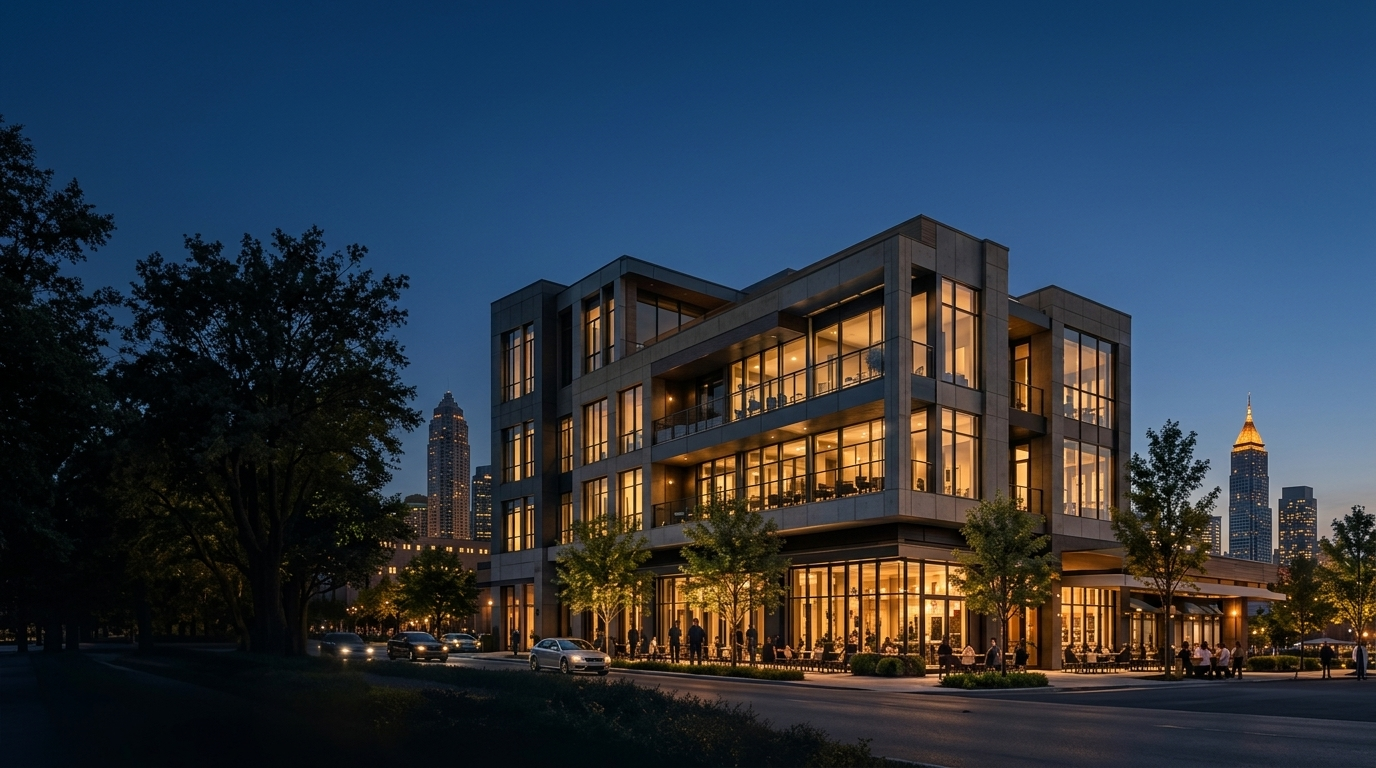
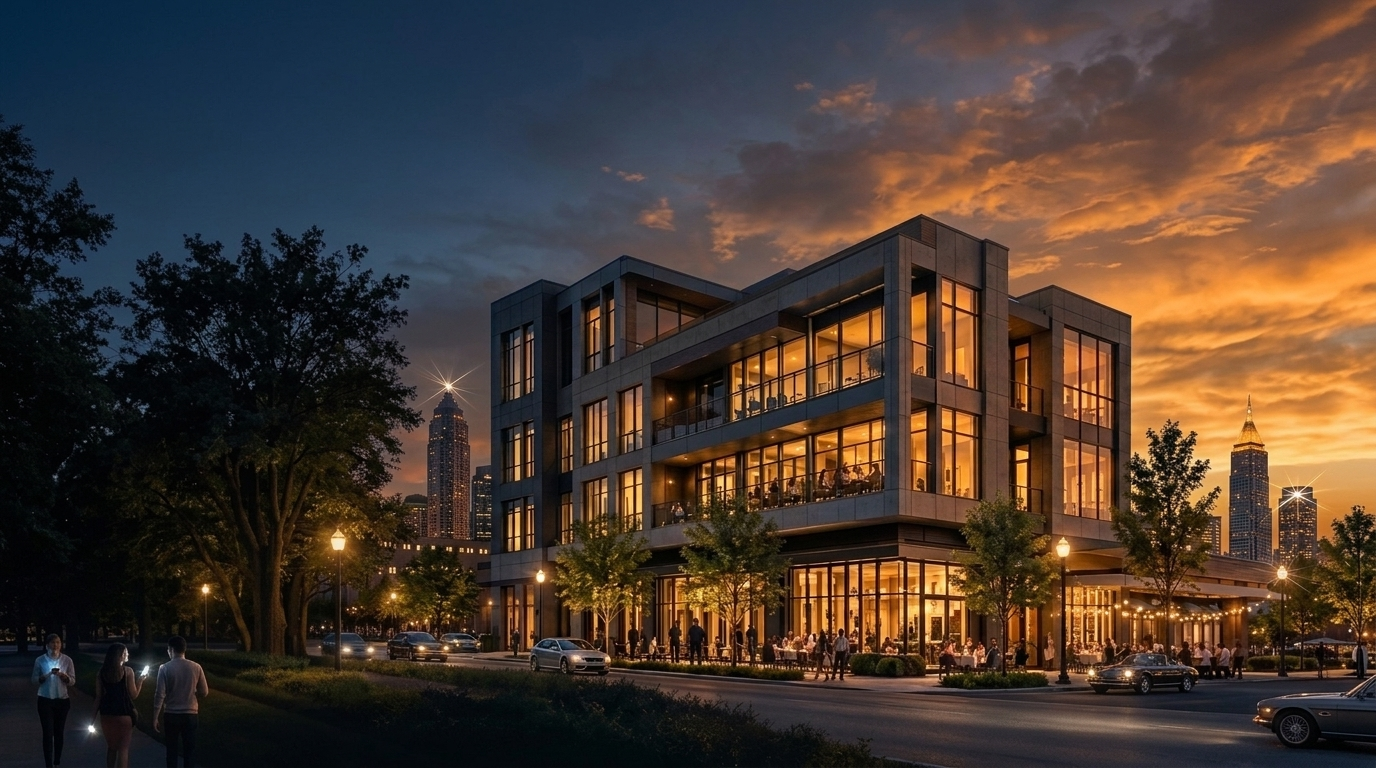
feat(hero): align hero section, imagery and metrics exactly with client reference mockup

diff --git a/components/sections/hero.tsx b/components/sections/hero.tsx
@@ -4,117 +4,206 @@ import * as React from "react";
 import Link from "next/link";
 import Image from "next/image";
 import { Button } from "@/components/ui/button";
-import {
-  Building2,
-  MapPin,
-  Users,
-  Home,
-  ShieldCheck,
-  ArrowRight,
-} from "lucide-react";
+import { ArrowRight } from "lucide-react";
 
 export function Hero() {
   const stats = [
     {
+      icon: (
+        <svg
+          className="w-7 h-7 sm:w-8 sm:h-8 text-[#C5A059] shrink-0"
+          viewBox="0 0 32 32"
+          fill="none"
+          stroke="currentColor"
+          strokeWidth="1.5"
+        >
+          <path
+            d="M4 28h24M7 28V9l9-5v24M16 14v14M16 14l9 4v10"
+            strokeLinecap="round"
+            strokeLinejoin="round"
+          />
+          <path
+            d="M10 11h3M10 15h3M10 19h3M10 23h3M19 19h3M19 23h3"
+            strokeLinecap="round"
+          />
+        </svg>
+      ),
       value: "$1B+",
-      label: "Projects & Programs Supported",
+      label1: "PROJECTS & PROGRAMS",
+      label2: "SUPPORTED",
     },
     {
-      value: "250+",
-      label: "Homes Delivered",
-    },
-    {
+      icon: (
+        <svg
+          className="w-7 h-7 sm:w-8 sm:h-8 text-[#C5A059] shrink-0"
+          viewBox="0 0 32 32"
+          fill="none"
+          stroke="currentColor"
+          strokeWidth="1.5"
+        >
+          <path
+            d="M5 10l3.5-3 5 2 6-4 6 3 2 7.5-2.5 5.5-6.5 2.5-7.5-2.5-4 1-2-4.5 2-7.5z"
+            strokeLinecap="round"
+            strokeLinejoin="round"
+          />
+        </svg>
+      ),
       value: "20+",
-      label: "Markets Across the U.S.",
+      label1: "MARKETS ACROSS",
+      label2: "THE U.S.",
     },
     {
+      icon: (
+        <svg
+          className="w-7 h-7 sm:w-8 sm:h-8 text-[#C5A059] shrink-0"
+          viewBox="0 0 32 32"
+          fill="none"
+          stroke="currentColor"
+          strokeWidth="1.5"
+        >
+          <circle cx="16" cy="11" r="3.5" />
+          <circle cx="9" cy="14.5" r="2.5" />
+          <circle cx="23" cy="14.5" r="2.5" />
+          <path
+            d="M11 25v-2a5 5 0 0 1 10 0v2M4 26v-1.5a4 4 0 0 1 6-3.5M28 26v-1.5a4 4 0 0 0-6-3.5"
+            strokeLinecap="round"
+            strokeLinejoin="round"
+          />
+        </svg>
+      ),
       value: "100%",
-      label: "Commitment to Community Impact",
+      label1: "COMMITMENT TO",
+      label2: "EXECUTION",
+    },
+    {
+      icon: (
+        <svg
+          className="w-7 h-7 sm:w-8 sm:h-8 text-[#C5A059] shrink-0"
+          viewBox="0 0 32 32"
+          fill="none"
+          stroke="currentColor"
+          strokeWidth="1.5"
+        >
+          <path
+            d="M5 26h22M8 26v-6M13 26v-11M18 26v-16M23 26v-21"
+            strokeLinecap="round"
+            strokeLinejoin="round"
+          />
+        </svg>
+      ),
+      value: "250+",
+      label1: "HOMES & UNITS",
+      label2: "DELIVERED",
+    },
+    {
+      icon: (
+        <svg
+          className="w-7 h-7 sm:w-8 sm:h-8 text-[#C5A059] shrink-0"
+          viewBox="0 0 32 32"
+          fill="none"
+          stroke="currentColor"
+          strokeWidth="1.5"
+        >
+          <circle cx="16" cy="9" r="2.5" />
+          <circle cx="23" cy="14" r="2.5" />
+          <circle cx="20.5" cy="22" r="2.5" />
+          <circle cx="11.5" cy="22" r="2.5" />
+          <circle cx="9" cy="14" r="2.5" />
+          <path
+            d="M13.5 11l6 3M21 16.5l-1 4M18.5 22.5h-5M11.5 20.5l-1-4M10.5 13l4-2.5"
+            strokeLinecap="round"
+            strokeLinejoin="round"
+            strokeDasharray="1 1.5"
+          />
+        </svg>
+      ),
+      value: "STRONGER",
+      label1: "COMMUNITIES",
+      label2: "NATIONWIDE",
     },
   ];
 
   return (
-    <section className="scroll-section is-in-view relative w-full h-[100dvh] max-h-[1080px] flex flex-col justify-between bg-brand-navy overflow-hidden">
+    <section className="scroll-section is-in-view relative w-full min-h-[100dvh] flex flex-col justify-between bg-[#0B1520] overflow-hidden">
       {/* Background Architectural Photo with Wide Perspective matching Reference */}
       <div className="absolute inset-0 z-0">
         <Image
-          src="/media/juboh-hero-dusk-wide.jpg"
+          src="/media/juboh-hero-dusk.jpg"
           alt="JUBOH Modern Mixed-Use Architectural Headquarters at Dusk"
           fill
           priority
           sizes="100vw"
-          className="object-cover object-[center_40%] lg:object-[center_35%]"
+          className="object-cover object-[center_38%]"
         />
-        {/* Cinematic gradient overlay matching buyer reference: dark left, clear right */}
-        <div className="absolute inset-0 bg-gradient-to-r from-black/85 via-black/40 to-transparent z-10" />
-        <div className="absolute inset-0 bg-gradient-to-t from-black/80 via-transparent to-black/40 z-10" />
+        {/* Cinematic gradient overlay matching buyer reference: strong contrast on left, revealing building on right */}
+        <div className="absolute inset-0 bg-gradient-to-r from-black/90 via-black/55 to-transparent z-10" />
+        <div className="absolute inset-0 bg-gradient-to-t from-black/85 via-transparent to-black/35 z-10" />
       </div>
 
       {/* Top Spacer for Fixed Header */}
-      <div className="h-14 sm:h-16 shrink-0" aria-hidden="true" />
+      <div className="h-16 sm:h-20 shrink-0" aria-hidden="true" />
 
-      {/* Main Hero Content (Vertically Balanced within 100vh) */}
-      <div className="relative z-20 flex-1 flex items-center py-1 sm:py-2">
+      {/* Main Hero Content (Vertically Balanced within Viewport) */}
+      <div className="relative z-20 flex-1 flex items-center py-6 sm:py-10">
         <div className="max-w-[1440px] w-full mx-auto px-5 sm:px-8 lg:px-12">
-          <div className="grid grid-cols-1 lg:grid-cols-12 gap-6 items-center">
+          <div className="grid grid-cols-1 lg:grid-cols-12 gap-8 items-center">
             {/* Left Column: Headlines & Actions matching buyer mockup */}
-            <div className="lg:col-span-8 space-y-3 sm:space-y-4 max-w-xl">
-              {/* Eyebrow */}
-              <p className="text-[10px] sm:text-[11px] font-semibold tracking-[0.2em] uppercase font-sans text-brand-brass">
-                REAL ESTATE | CONSTRUCTION | GOVERNMENT | STRATEGIC ADVISORY
+            <div className="lg:col-span-8 space-y-4 sm:space-y-5 max-w-2xl">
+              {/* Eyebrow / Kicker */}
+              <p className="text-[11px] sm:text-xs font-semibold tracking-[0.24em] uppercase font-sans text-white/80">
+                REAL ESTATE. INFRASTRUCTURE. OPPORTUNITY.
               </p>
 
               {/* Main Headline */}
-              <h1 className="font-serif text-white tracking-tight space-y-0 sm:space-y-0.5">
-                <span className="block text-4xl sm:text-5xl md:text-[3.25rem] lg:text-[4rem] font-normal leading-[1.08]">
+              <h1 className="font-serif tracking-tight text-white leading-[1.04]">
+                <span className="block text-4xl sm:text-6xl md:text-7xl lg:text-[5.25rem] font-normal">
                   Building
                 </span>
-                <span className="block text-4xl sm:text-5xl md:text-[3.25rem] lg:text-[4rem] font-normal leading-[1.08]">
+                <span className="block text-4xl sm:text-6xl md:text-7xl lg:text-[5.25rem] font-normal text-[#C5A059]">
                   More Than
                 </span>
-                <span className="block text-4xl sm:text-5xl md:text-[3.25rem] lg:text-[4rem] font-normal leading-[1.08]">
+                <span className="block text-4xl sm:text-6xl md:text-7xl lg:text-[5.25rem] font-normal">
                   Buildings.
                 </span>
               </h1>
 
               {/* Subcopy */}
-              <p className="text-xs sm:text-sm font-sans font-light text-white/85 leading-relaxed max-w-md">
-                Real estate development, construction program management, and strategic advisory for stronger communities.
+              <p className="text-xs sm:text-sm md:text-[15px] font-sans font-light text-white/85 leading-relaxed max-w-lg">
+                We develop real estate, manage complex construction programs, and provide strategic advisory services that turn vision into lasting impact.
               </p>
 
               {/* Action Buttons */}
-              <div className="pt-2 flex flex-row items-center gap-3">
+              <div className="pt-3 flex flex-wrap items-center gap-3.5">
                 <Button
                   asChild
-                  variant="default"
-                  size="sm"
-                  className="h-9 sm:h-10 px-5 sm:px-6 text-[11px] tracking-kicker"
+                  className="bg-[#C5A059] hover:bg-[#B38F48] text-[#181512] font-semibold text-xs tracking-[0.14em] uppercase h-11 px-6 sm:px-7 gap-2 rounded-[2px] transition-all hover:shadow-[0_4px_20px_rgba(197,160,89,0.35)]"
                 >
-                  <Link href="/projects" className="inline-flex items-center gap-1.5">
-                    <span>EXPLORE OUR WORK</span>
-                    <ArrowRight className="w-3.5 h-3.5" />
+                  <Link href="/projects" className="inline-flex items-center gap-2">
+                    <span>OUR PROJECTS</span>
+                    <ArrowRight className="w-4 h-4 stroke-[2.4]" />
                   </Link>
                 </Button>
 
                 <Button
                   asChild
-                  variant="outlineLight"
-                  size="sm"
-                  className="h-9 sm:h-10 px-5 sm:px-6 text-[11px] tracking-kicker"
+                  variant="outline"
+                  className="border-white/45 text-white bg-black/20 backdrop-blur-sm hover:bg-white/10 hover:border-white hover:text-white font-medium text-xs tracking-[0.14em] uppercase h-11 px-6 sm:px-7 gap-2 rounded-[2px] transition-all"
                 >
-                  <Link href="/companies" className="inline-flex items-center gap-1.5">
+                  <Link href="/companies" className="inline-flex items-center gap-2">
                     <span>OUR SERVICES</span>
+                    <ArrowRight className="w-4 h-4 stroke-[2]" />
                   </Link>
                 </Button>
               </div>
             </div>
 
-            {/* Right Column: Floating Accent Bar */}
+            {/* Right Column: Floating Accent Bar matching Reference */}
             <div className="hidden lg:flex lg:col-span-4 justify-end">
-              <div className="flex items-start gap-3 pl-6 border-l border-white/20 text-white">
-                <div className="space-y-2.5">
-                  <div className="w-8 h-[2px] bg-[#C5A059]" />
-                  <div className="space-y-1.5 text-[10px] sm:text-[11px] font-sans tracking-[0.22em] text-white/90 uppercase font-medium">
+              <div className="flex items-start gap-4 text-white">
+                <div className="w-[1px] h-32 bg-white/25 self-stretch" />
+                <div className="space-y-3 pt-2">
+                  <div className="w-6 h-[2px] bg-[#C5A059]" />
+                  <div className="space-y-2 text-xs font-sans tracking-[0.24em] text-white/90 uppercase font-medium leading-relaxed">
                     <p>PEOPLE.</p>
                     <p>PLACES.</p>
                     <p>OPPORTUNITY.</p>
@@ -127,23 +216,28 @@ export function Hero() {
         </div>
       </div>
 
-      {/* Bottom 4 Metrics Strip matching Reference Photo */}
-      <div className="relative z-20 w-full shrink-0 bg-[#0B1520]/95 backdrop-blur-md border-t border-white/10 shadow-lg">
+      {/* Bottom 5 Metrics Strip matching Reference Photo Exactly */}
+      <div className="relative z-20 w-full shrink-0 bg-[#070D14]/95 backdrop-blur-md border-t border-white/15">
         <div className="max-w-[1440px] mx-auto px-5 sm:px-8 lg:px-12">
-          <div className="grid grid-cols-2 md:grid-cols-4 divide-y md:divide-y-0 md:divide-x divide-white/10 py-3 sm:py-4">
+          <div className="grid grid-cols-2 sm:grid-cols-3 lg:grid-cols-5 divide-y sm:divide-y-0 lg:divide-x divide-white/10 py-4 sm:py-5">
             {stats.map((stat, idx) => (
               <div
-                key={stat.label}
-                className={`flex flex-col justify-center px-4 sm:px-6 py-2 md:py-0 ${
-                  idx === 0 ? "md:pl-0" : ""
-                } ${idx === stats.length - 1 ? "md:pr-0" : ""}`}
+                key={stat.label1}
+                className={`flex items-center gap-3.5 px-3 sm:px-5 py-2.5 lg:py-1 ${
+                  idx === 0 ? "lg:pl-0" : ""
+                } ${idx === stats.length - 1 ? "lg:pr-0" : ""}`}
               >
-                <p className="font-serif text-2xl sm:text-3xl lg:text-4xl text-white font-normal tracking-tight leading-none">
-                  {stat.value}
-                </p>
-                <p className="text-[11px] sm:text-xs text-white/70 font-light mt-1">
-                  {stat.label}
-                </p>
+                {stat.icon}
+                <div className="flex flex-col">
+                  <span className="font-serif text-2xl sm:text-3xl lg:text-[2rem] text-white font-normal tracking-tight leading-none">
+                    {stat.value}
+                  </span>
+                  <span className="text-[10px] sm:text-[11px] font-sans tracking-[0.08em] uppercase text-white/65 mt-1 leading-tight font-medium">
+                    {stat.label1}
+                    <br />
+                    {stat.label2}
+                  </span>
+                </div>
               </div>
             ))}
           </div>

diff --git a/components/layout/header.tsx b/components/layout/header.tsx
@@ -48,9 +48,9 @@ export function Header() {
         <Link href="/" className="group flex flex-col focus:outline-none">
           <span
             className={cn(
-              "font-serif tracking-[0.2em] text-2xl sm:text-[24px] font-medium leading-none transition-colors",
+              "font-serif tracking-[0.18em] text-2xl sm:text-[26px] font-normal leading-none transition-colors",
               isDarkOverlay || isScrolled
-                ? "text-white group-hover:text-brand-brass"
+                ? "text-white"
                 : "text-brand-charcoal group-hover:text-brand-navy"
             )}
           >
@@ -58,10 +58,10 @@ export function Header() {
           </span>
           <span
             className={cn(
-              "text-[8px] tracking-[0.3em] uppercase font-sans font-semibold mt-0.5 transition-colors",
+              "text-[8px] tracking-[0.38em] uppercase font-sans font-medium mt-1 transition-colors",
               isDarkOverlay || isScrolled
-                ? "text-brand-brass"
-                : "text-brand-charcoal/60 group-hover:text-brand-brass"
+                ? "text-[#C5A059]"
+                : "text-brand-charcoal/60"
             )}
           >
             COMPANIES
@@ -75,13 +75,11 @@ export function Header() {
         <div className="flex items-center gap-4">
           <Button
             asChild
-            variant="default"
-            size="sm"
-            className="hidden sm:inline-flex text-[11px] tracking-kicker h-9 sm:h-10 px-5 gap-1.5"
+            className="hidden sm:inline-flex bg-[#C5A059] hover:bg-[#B38F48] text-[#181512] font-semibold text-[11px] tracking-[0.14em] uppercase h-9 sm:h-10 px-5 gap-2 rounded-[2px] shadow-sm transition-all hover:shadow-[0_4px_16px_rgba(197,160,89,0.35)]"
           >
             <Link href={siteConfig.primaryCta.href}>
               <span>{siteConfig.primaryCta.title}</span>
-              <ArrowRight className="w-3.5 h-3.5" />
+              <ArrowRight className="w-3.5 h-3.5 stroke-[2.4]" />
             </Link>
           </Button>
 

diff --git a/components/layout/desktop-nav.tsx b/components/layout/desktop-nav.tsx
@@ -23,11 +23,11 @@ export function DesktopNav({ isDark = false }: DesktopNavProps) {
             key={item.href}
             href={item.href}
             className={cn(
-              "text-[12px] tracking-[0.08em] uppercase transition-colors duration-200 py-1 font-medium",
+              "text-[11px] tracking-[0.16em] uppercase transition-colors duration-200 py-1 font-medium",
               isDark
                 ? isActive
-                  ? "text-brand-brass font-semibold"
-                  : "text-white/80 hover:text-white"
+                  ? "text-[#C5A059] font-semibold"
+                  : "text-white/85 hover:text-white"
                 : isActive
                 ? "text-brand-brass font-semibold"
                 : "text-brand-charcoal/80 hover:text-brand-charcoal"
@@ -42,12 +42,12 @@ export function DesktopNav({ isDark = false }: DesktopNavProps) {
         type="button"
         aria-label="Search institutional portal"
         className={cn(
-          "p-1 rounded transition-colors focus:outline-none focus:ring-1 focus:ring-brand-brass",
-          isDark ? "text-white/70 hover:text-white" : "text-brand-charcoal/70 hover:text-brand-charcoal"
+          "p-1 rounded transition-colors focus:outline-none focus:ring-1 focus:ring-brand-brass ml-1",
+          isDark ? "text-white/80 hover:text-white" : "text-brand-charcoal/70 hover:text-brand-charcoal"
         )}
       >
         <svg
-          className="w-4 h-4 stroke-[1.75]"
+          className="w-4 h-4 stroke-[1.8]"
           fill="none"
           stroke="currentColor"
           viewBox="0 0 24 24"
